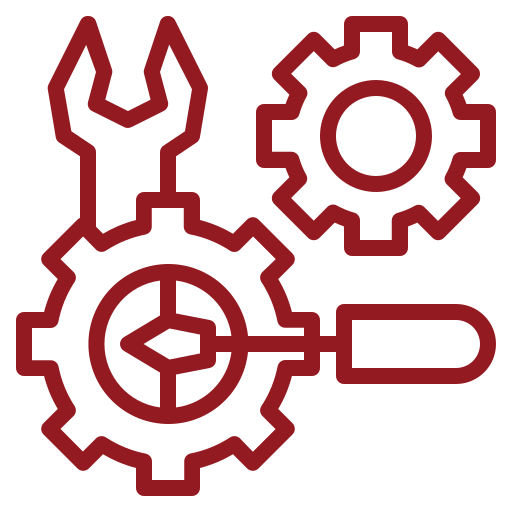
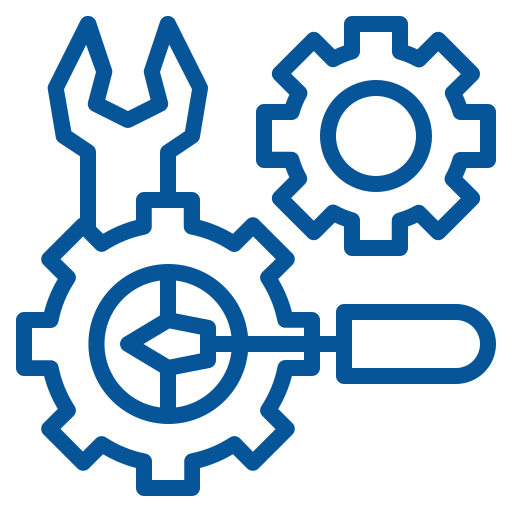
Complete

Changed region(s): [[0.0312, 0.0312, 0.9688, 0.9688], [0.625, 0.1562, 0.8438, 0.375]]

diff --git a/index.htm b/index.htm
@@ -18,6 +18,8 @@
   <link rel="alternate" type="text/calendar" title="Equant &raquo; iCal Feed"
     href="events/equant-1016c457fff.ics?ical=1" />
 
+    <link rel="icon" type="image/png" href="wp-content/uploads/2024/04/fav.png">
+
   <!-- my css fonti start -->
 
   <style>
@@ -635,15 +637,15 @@
     media="all" />
   <style id="equant-theme-style-inline-css" type="text/css">
     :root {
-      --main: #931A21 !important;
-      --second: #931A21 !important;
+      --main: #065598 !important;
+      --second: #3878B2 !important;
       --gray: #efefef !important;
       --black: #0b111d !important;
       --black-dark: #152527 !important;
       --white: #ffffff !important;
       --red: #ea4423 !important;
       --yellow: #fca000 !important;
-      --green: #931A21 !important;
+      --green: #3878B2 !important;
       --font-main: "Work Sans" !important;
       --font-headers: "Wix Madefor Display" !important;
       --font-subheaders: "Orbitron" !important;

diff --git a/wp-content/uploads/elementor/css/post-32647.css b/wp-content/uploads/elementor/css/post-32647.css
@@ -32,7 +32,7 @@
   .elementor-element.elementor-element-681ed30
   > .elementor-motion-effects-container
   > .elementor-motion-effects-layer {
-  background-image: url("../../2024/04/services-bg2.png" );
+  background-image: url("../../2024/04/services-bg3.png" );
   background-position: bottom center;
   background-size: cover;
  
